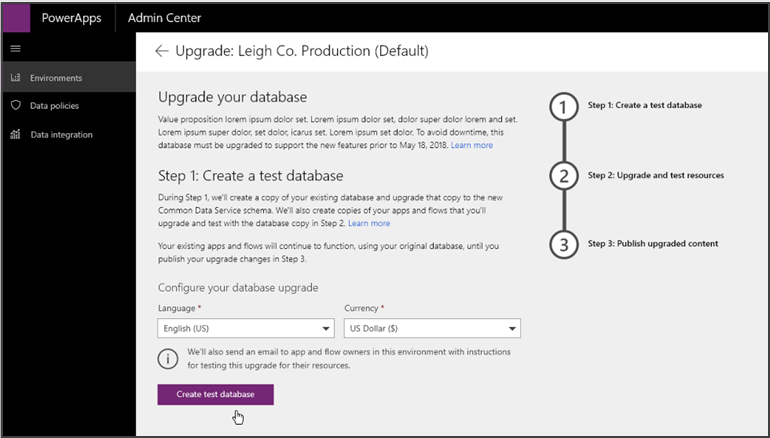
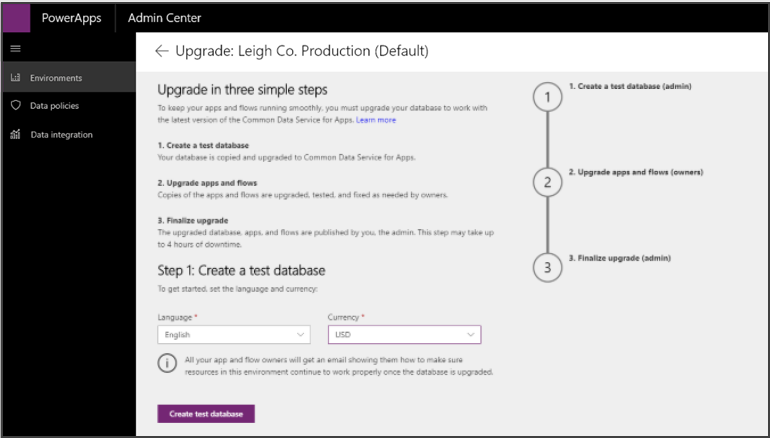
updated screenshots

Changed region(s): [[0.187, 0.1781, 0.9351, 0.9795]]

diff --git a/common-data-service/upgradecds/start-upgrade-process.md b/common-data-service/upgradecds/start-upgrade-process.md
@@ -66,9 +66,17 @@ to it. We encourage admins to communciate to users when step 3 is planned to be
 
 To start upgrading your database to the latest CDS for Apps: 
 
-1.  If you’re an environment Administrator, go to the [PowerApps admin
+<!-- 1.  If you’re an environment Administrator, go to the [PowerApps admin
     center](https://admin.powerapps.com/), and in the left navigation pane,
     select **Environments**. 
+
+    Environments that have a database on the previous version of CDS have **Upgrade now** listed next to them. 
+
+    ![Environments](media/environments.png) -->
+
+1.  If you’re an environment Administrator, 
+    go to [https://aka.ms/cdsupgrade ](https://aka.ms/cdsupgrade ), 
+    and in the left navigation pane, select **Environments**. 
 
     Environments that have a database on the previous version of CDS have **Upgrade now** listed next to them. 
 
@@ -81,6 +89,9 @@ To start upgrading your database to the latest CDS for Apps: 
     and then select **Create test database**.  
 
     ![Create test database](media/create-test-database.png)
+
+    > [!IMPORTANT]
+    > It may take several hours to create the test database. There is no progress bar. The spinning icon for the first step indicates is is running.
 
     A test database with the latest version of CDS for Apps is created. You can view the schema of the new database during the creation process, as shown in the following example. 
 
